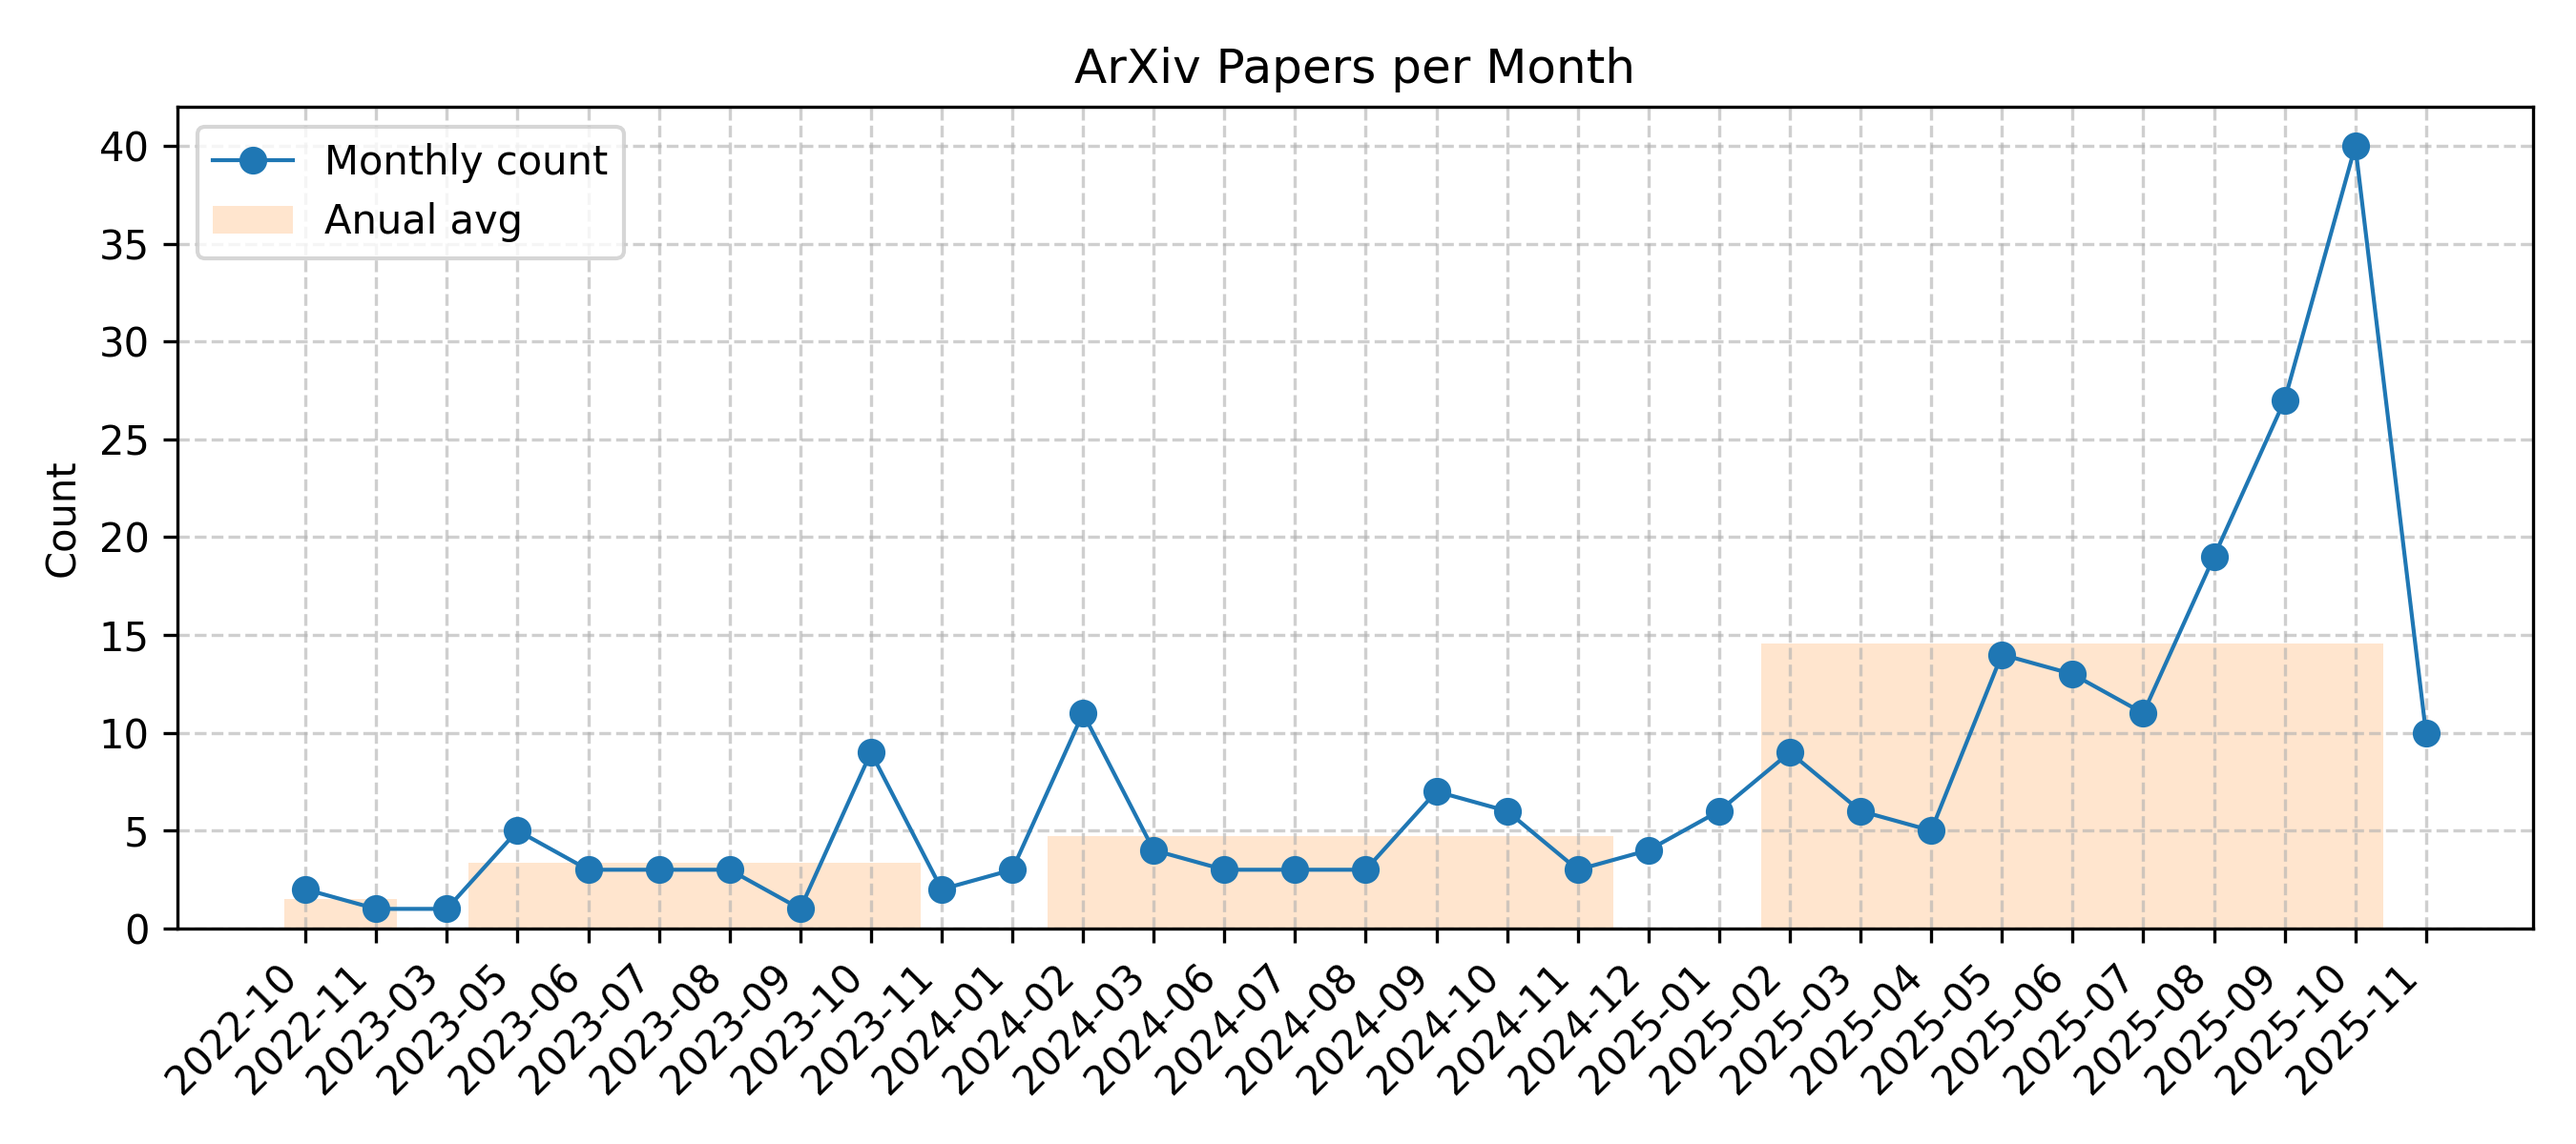
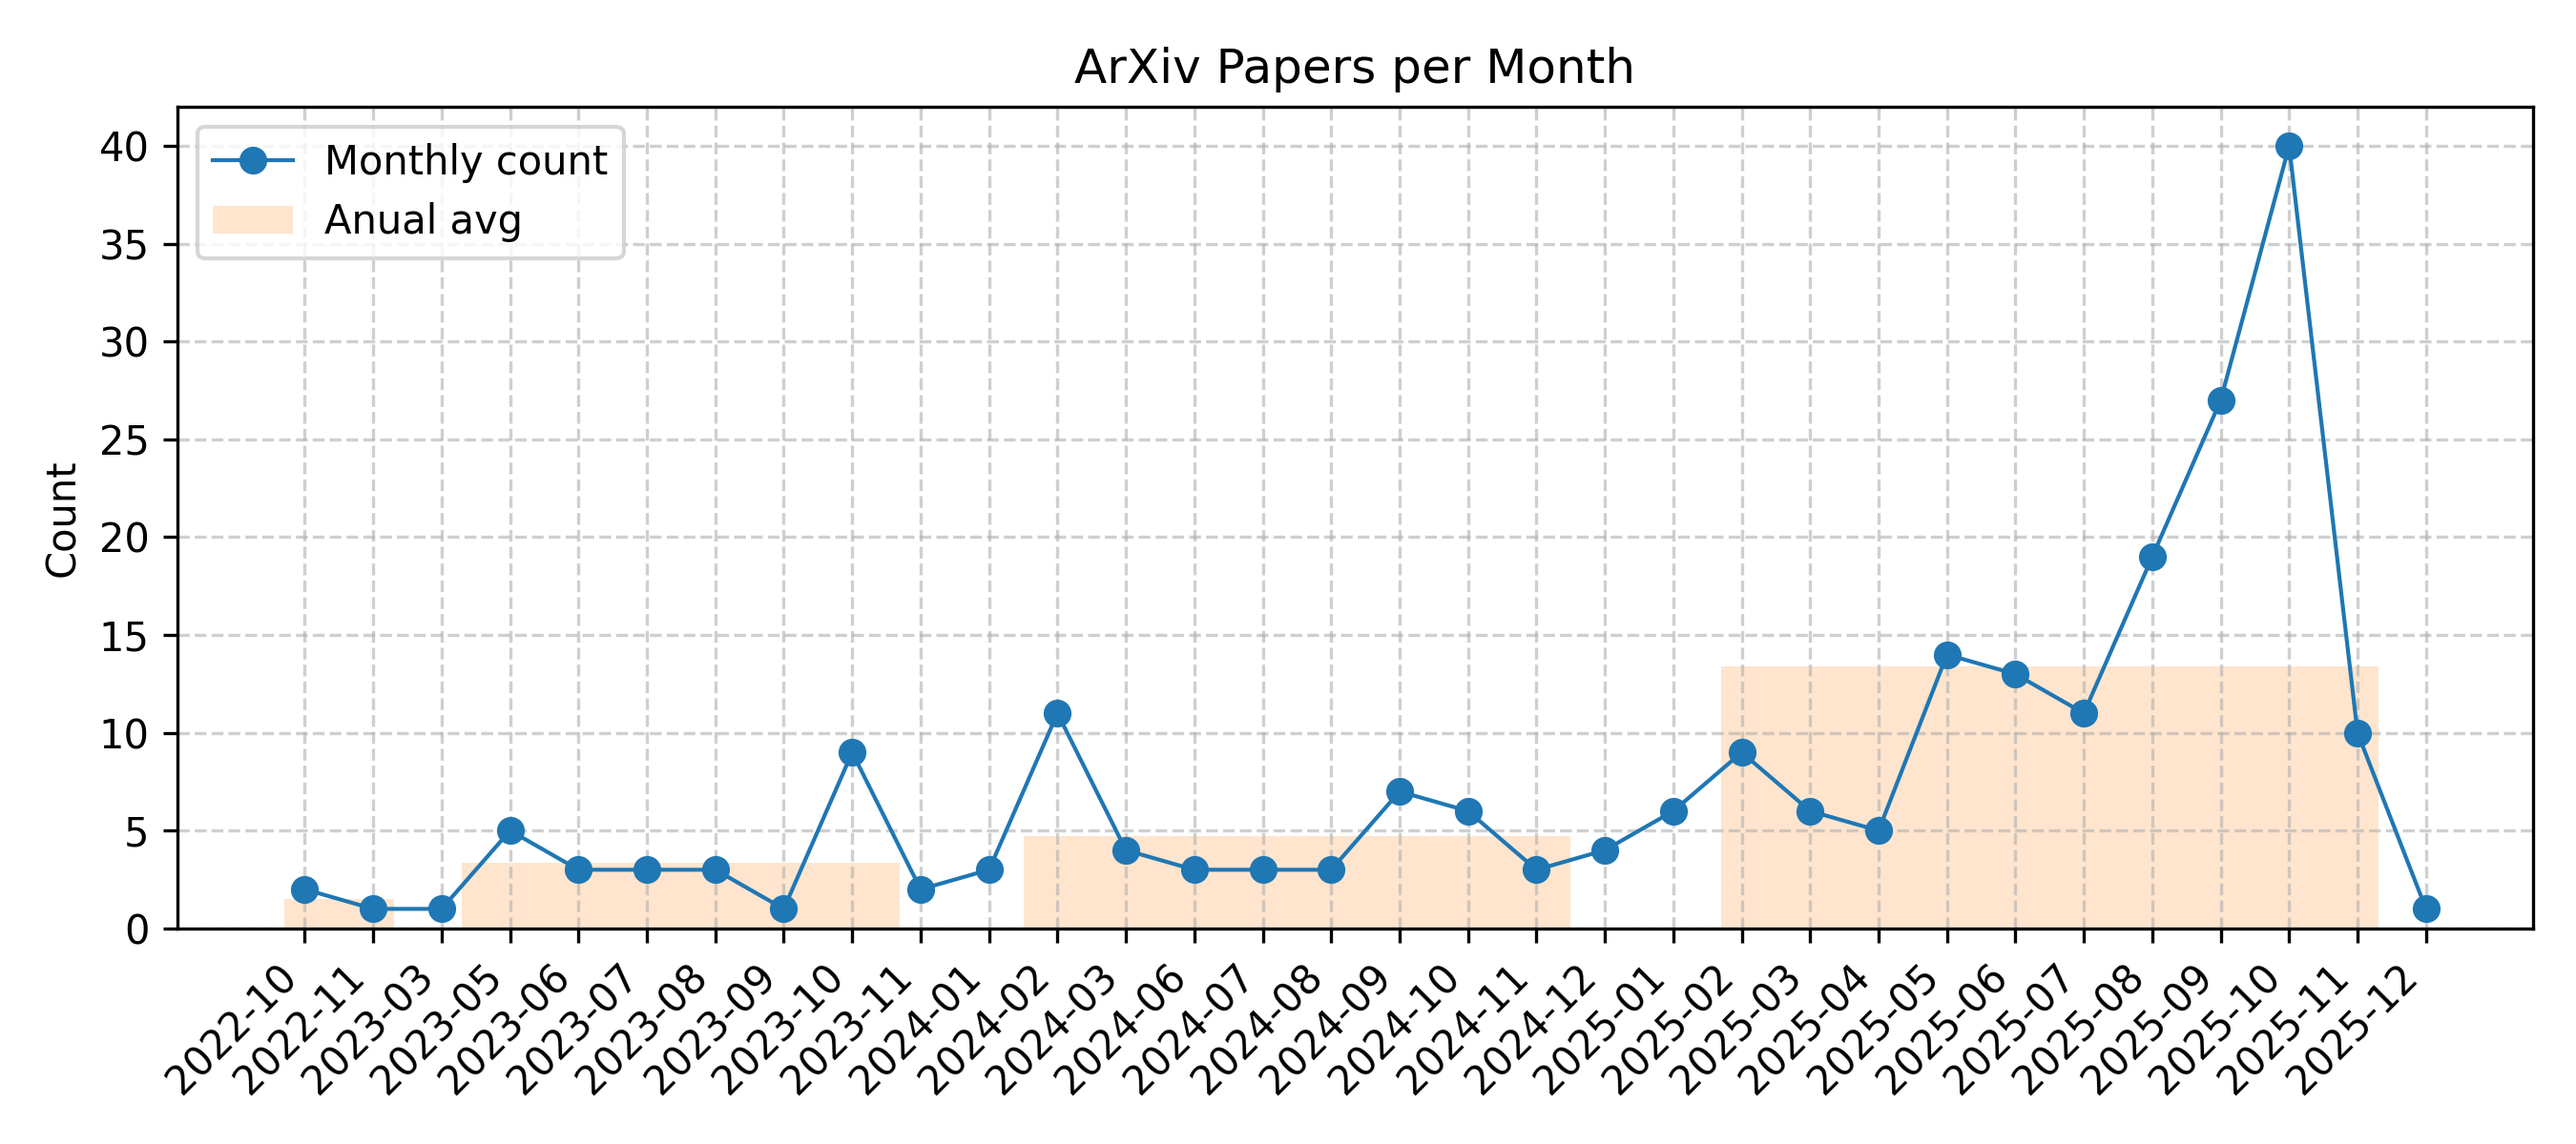
Github Action Automatic Update Diffusion NLP Arxiv Papers

Changed region(s): [[0.0933, 0.1233, 0.9644, 0.9558], [0.9333, 0.7708, 0.9644, 0.8017]]

diff --git a/README.md b/README.md
@@ -5,7 +5,7 @@
 
 For more carefully curated articles, you can refer to this [repository](https://github.com/bansky-cl/Diffusion_NLP_Papers).
 
-## Updated on 2025.12.01
+## Updated on 2025.12.02
 
 ![Monthly Trend](imgs/trend.png)
 
@@ -13,6 +13,7 @@ For more carefully curated articles, you can refer to this [repository](https://
 
 |Date|Title|label|Abstract|PDF|Code|
 |---|---|---|---|---|---|
+|**2025-12-01**|**Pay Attention Later: From Vector Space Diffusion to Linearithmic Spectral Phase-Locking**|cs.LG, cs.AI, cs.CL| <details><summary>Full Abstract</summary>Standard Transformers suffer from a "Semantic Alignment Tax", a prohibitive optimization cost required to organize a chaotic initialization into a coherent geometric map via local gradient diffusion. We hypothesize that this reliance on diffusive learning creates "Catastrophic Rigidity", rendering models unable to adapt to novel concepts without destroying their pre-trained reasoning capabilities. To isolate this phenomenon, we introduce Iterative Semantic Map Refinement (ISMR), a diagnostic protocol revealing that alignment is a fixed geometric barrier that scaling cannot solve; a 20-layer model overcomes this barrier no faster than a 1-layer model. We introduce the Phase-Resonant Intelligent Spectral Model (PRISM). PRISM encodes semantic identity as resonant frequencies in the complex domain (C^d) and replaces quadratic self-attention with linearithmic O(N log N) Gated Harmonic Convolutions. We validate PRISM on the WMT14 translation task. While the Standard Transformer maintains a slight edge in general competence on static benchmarks (23.88 vs 21.40 BLEU), it fails the "Plasticity-Stability" stress test completely. When injected with novel concepts, the Transformer suffers Catastrophic Forgetting, degrading by -10.55 BLEU points while achieving only 60% acquisition. In contrast, PRISM demonstrates Lossless Plasticity, achieving 96% 5-shot acquisition with negligible degradation (-0.84 BLEU). These results suggest that harmonic representations effectively decouple memory from reasoning, offering a structural solution to the plasticity-stability dilemma in real-time knowledge adaptation.</details>|[2512.01208v1](http://arxiv.org/abs/2512.01208v1)| null|
 |**2025-11-27**|**C$^2$DLM: Causal Concept-Guided Diffusion Large Language Models**|cs.CL| <details><summary>Full Abstract</summary>Autoregressive (AR) language models and Diffusion Language Models (DLMs) constitute the two principal paradigms of large language models. However, both paradigms suffer from insufficient reasoning capabilities. Human reasoning inherently relies on causal knowledge and thought, which are reflected in natural language. But in the AR paradigm, language is modeled as next token prediction (a strictly left-to-right, token-by-token order), whereas natural language itself exhibits more flexible causal structures. In the DLM paradigm, the attention mechanism is fully connected, which entirely disregards causal order. To fill this gap, we propose a \underline{\textbf{C}}ausal \underline{\textbf{C}}oncept-Guided \underline{\textbf{D}}iffusion \underline{\textbf{L}}anguage \underline{\textbf{M}}odel (C$^2$DLM). Starting from DLM's fully connected attention, C$^2$DLM first obtains a concept-level causal graph from the teacher model, and then explicitly guides attention to learn causal relationships between concepts. By focusing on causal relationships and avoiding interference from difficult subgoals involving causal inversion, C$^2$DLM improves 12\% with about 3.2 times training speedup in the COT-OrderPerturb task, and achieves an average gain of 1.31\% across six downstream reasoning tasks. More details in the repository ~\href{https://github.com/Kairong-Han/C-2-DLM}{here}.</details>|[2511.22146v1](http://arxiv.org/abs/2511.22146v1)| null|
 |**2025-11-24**|**Orchestrating Dual-Boundaries: An Arithmetic Intensity Inspired Acceleration Framework for Diffusion Language Models**|cs.CL, cs.LG| <details><summary>Full Abstract</summary>Diffusion-based large language models (dLLMs) have recently gained significant attention for their exceptional performance and inherent potential for parallel decoding. Existing frameworks further enhance its inference efficiency by enabling KV caching. However, its bidirectional attention mechanism necessitates periodic cache refreshes that interleave prefill and decoding phases, both contributing substantial inference cost and constraining achievable speedup. Inspired by the heterogeneous arithmetic intensity of the prefill and decoding phases, we propose ODB-dLLM, a framework that orchestrates dual-boundaries to accelerate dLLM inference. In the prefill phase, we find that the predefined fixed response length introduces heavy yet redundant computational overhead, which affects efficiency. To alleviate this, ODB-dLLM incorporates an adaptive length prediction mechanism that progressively reduces prefill overhead and unnecessary computation. In the decoding phase, we analyze the computational characteristics of dLLMs and propose a dLLM-specific jump-share speculative decoding method to enhance efficiency by reducing the number of decoding iterations. Experimental results demonstrate that ODB-dLLM achieves 46-162x and 2.63-6.30x speedups over the baseline dLLM and Fast-dLLM, respectively, while simultaneously mitigating the accuracy degradation in existing acceleration frameworks.</details>|[2511.21759v1](http://arxiv.org/abs/2511.21759v1)| null|
 |**2025-11-22**|**DELTA: Language Diffusion-based EEG-to-Text Architecture**|cs.CL| <details><summary>Full Abstract</summary>Electroencephalogram (EEG)-to-text remains challenging due to high-dimensional noise, subject variability, and error accumulation in autoregressive decoding. We introduce DELTA, which pairs a Residual Vector Quantization (RVQ) EEG tokenizer with a masked language diffusion model (LLaDA). RVQ discretizes continuous EEG into multi-layer tokens to reduce noise and individual differences, while LLaDA reconstructs sentences via non-sequential denoising. On ZuCo, DELTA improves semantic alignment by up to 5.37 points over autoregressive baselines, achieving BLEU-1 21.9 and ROUGE-1 F 17.2 under word-level conditions. These results enable reliable text generation from small EEG-text datasets and point toward scalable multimodal EEG-language models.</details>|[2511.21746v1](http://arxiv.org/abs/2511.21746v1)| null|
@@ -251,7 +252,7 @@ For more carefully curated articles, you can refer to this [repository](https://
 |**2022-11-01**|**DiffusER: Discrete Diffusion via Edit-based Reconstruction**|cs.CL, cs.LG| <details><summary>Full Abstract</summary>In text generation, models that generate text from scratch one token at a time are currently the dominant paradigm. Despite being performant, these models lack the ability to revise existing text, which limits their usability in many practical scenarios. We look to address this, with DiffusER (Diffusion via Edit-based Reconstruction), a new edit-based generative model for text based on denoising diffusion models -- a class of models that use a Markov chain of denoising steps to incrementally generate data. DiffusER is not only a strong generative model in general, rivalling autoregressive models on several tasks spanning machine translation, summarization, and style transfer; it can also perform other varieties of generation that standard autoregressive models are not well-suited for. For instance, we demonstrate that DiffusER makes it possible for a user to condition generation on a prototype, or an incomplete sequence, and continue revising based on previous edit steps.</details>|[2210.16886v1](http://arxiv.org/abs/2210.16886v1)| null|
 |**2023-02-01**|**Diffuser: Efficient Transformers with Multi-hop Attention Diffusion for Long Sequences**|cs.LG, cs.CL|<details><summary>Full Abstract</summary>Efficient Transformers have been developed for long sequence modeling, due to their subquadratic memory and time complexity. Sparse Transformer is a popular approach to improving the efficiency of Transformers by restricting self-attention to locations specified by the predefined sparse patterns. However, leveraging sparsity may sacrifice expressiveness compared to full-attention, when important token correlations are multiple hops away. To combine advantages of both the efficiency of sparse transformer and the expressiveness of full-attention Transformer, we propose \textit{Diffuser}, a new state-of-the-art efficient Transformer. Diffuser incorporates all token interactions within one attention layer while maintaining low computation and memory costs. The key idea is to expand the receptive field of sparse attention using Attention Diffusion, which computes multi-hop token correlations based on all paths between corresponding disconnected tokens, besides attention among neighboring tokens. Theoretically, we show the expressiveness of Diffuser as a universal sequence approximator for sequence-to-sequence modeling, and investigate its ability to approximate full-attention by analyzing the graph expander property from the spectral perspective. Experimentally, we investigate the effectiveness of Diffuser with extensive evaluations, including language modeling, image modeling, and Long Range Arena (LRA). Evaluation results show that Diffuser achieves improvements by an average of 0.94% on text classification tasks and 2.30% on LRA, with 1.67$\times$ memory savings compared to state-of-the-art benchmarks, which demonstrates superior performance of Diffuser in both expressiveness and efficiency aspects.</details>|[2210.11794v2](http://arxiv.org/abs/2210.11794v2)|**[link](https://github.com/asFeng/Diffuser)**|
 
-<p align=right>(<a href=#Updated-on-20251201>back to top</a>)</p>
+<p align=right>(<a href=#Updated-on-20251202>back to top</a>)</p>
 
 [contributors-shield]: https://img.shields.io/github/contributors/bansky-cl/diffusion-nlp-paper-arxiv.svg?style=for-the-badge
 [contributors-url]: https://github.com/bansky-cl/diffusion-nlp-paper-arxiv/graphs/contributors
